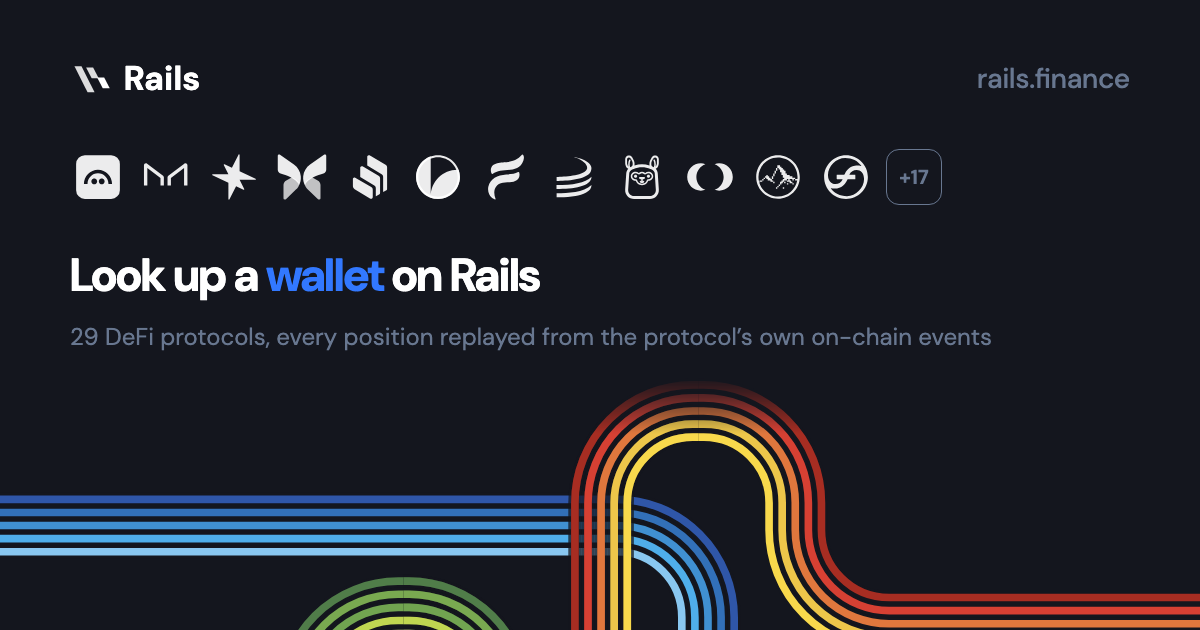
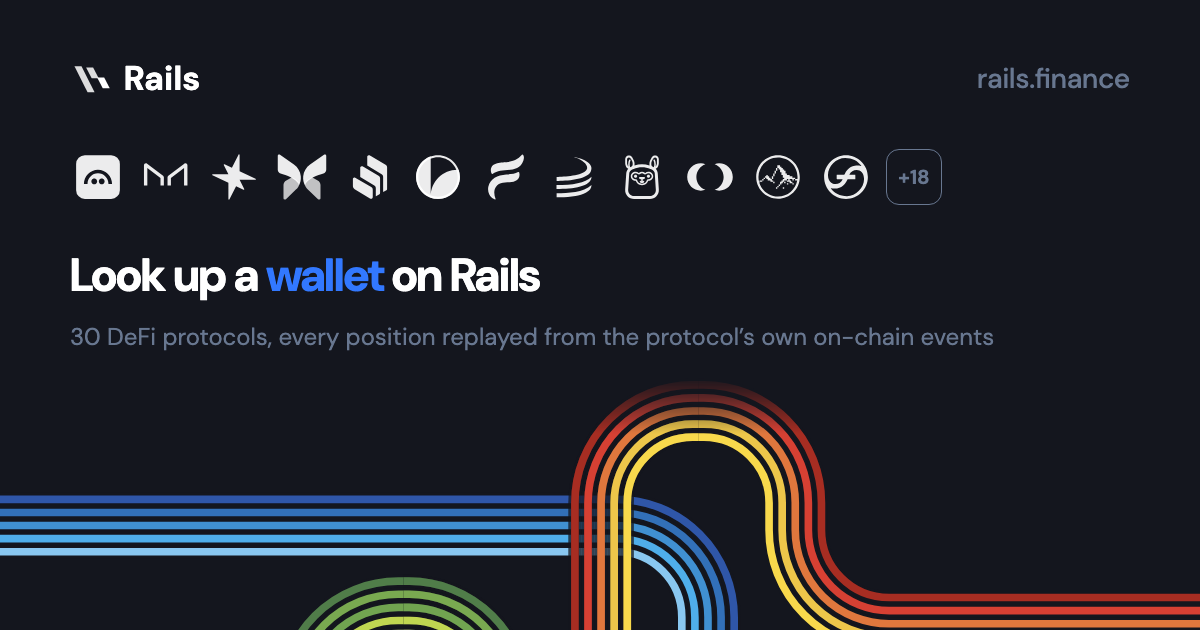
aerodrome: launched, so the nav, home, coverage and the home share card include it (ui-jobs 566)
Claude-Session: liquidity-pool-research

Changed region(s): [[0.0617, 0.5127, 0.8325, 0.573], [0.74, 0.2714, 0.7708, 0.3016]]

diff --git a/app/layout.tsx b/app/layout.tsx
@@ -133,7 +133,7 @@ export const metadata: Metadata = {
         // fresh rather than served stale from their cache. Bump the hash
         // (`shasum -a 256 public/og/home.png | cut -c1-8`) whenever
         // `pnpm og` changes this file's bytes.
-        url: "/og/home-cd329691.png",
+        url: "/og/home-dfb83697.png",
         width: 1200,
         height: 630,
         alt: `Look up a wallet on Rails: ${PROTOCOL_COUNT} DeFi protocols on ${PRODUCTION_CHAIN_NAMES}, plus Polaris on Sepolia`,
@@ -144,7 +144,7 @@ export const metadata: Metadata = {
     card: "summary_large_image",
     title: SITE_TITLE,
     description: OG_DESCRIPTION,
-    images: ["/og/home-cd329691.png"],
+    images: ["/og/home-dfb83697.png"],
     creator: TWITTER_HANDLE,
     site: TWITTER_HANDLE,
   },

diff --git a/lib/shared/protocols.ts b/lib/shared/protocols.ts
@@ -194,7 +194,6 @@ const SPECS: ProtocolSpec[] = [
     // `<route>/<wallet>`, each opening `<route>/position/<deployment>/<id>`
     // (ids overlap across Slipstream's three position managers). Reads come
     // from rails-server's at-block routes (lib/api/fetch-aerodrome.ts).
-    // Unlaunched while Miles reads it.
     id: "aerodrome",
     session: "aerodrome",
     label: "Aerodrome",
@@ -206,7 +205,6 @@ const SPECS: ProtocolSpec[] = [
     tags: ["Liquidity"],
     desc: "Concentrated liquidity on Base, staked or not: a position's range, fees or AERO and pool over the last 30 days",
     positionListing: false,
-    unlaunched: true,
     readTier: "visit",
     subPages: [],
   },

diff --git a/lib/shared/page-metadata.ts b/lib/shared/page-metadata.ts
@@ -77,7 +77,7 @@ export const TWITTER_HANDLE = RAILS_X_AT;
 // bytes — `public/og/home.png` itself stays at its unhashed path too (kept on
 // disk for scripts/verify/verify-share-abuse.mjs's static-file census), and is
 // regenerated in place alongside this hashed copy.
-export const HOME_SHARE_IMAGE = "/og/home-cd329691.png";
+export const HOME_SHARE_IMAGE = "/og/home-dfb83697.png";
 
 /** The Twitter card for a page that sets its own `openGraph` without
  *  `shareMetadata`: the same title and description, on the home share image.

diff --git a/lib/shared/coverage.ts b/lib/shared/coverage.ts
@@ -933,7 +933,7 @@ export const DEPTH: Record<string, Record<DepthKey, DepthCell>> = {
   }),
   // Aerodrome Slipstream on Base (ui-jobs 566), on Uniswap V3's row: the
   // position page reads the pool, the position and its gauge at the head and
-  // 30 days back. Unlaunched, so the matrix does not draw it yet.
+  // 30 days back.
   aerodrome: explorerDepth({
     dashboard: true,
     oracleUsd: { why: ORACLE_USD_REASON.aerodrome },
